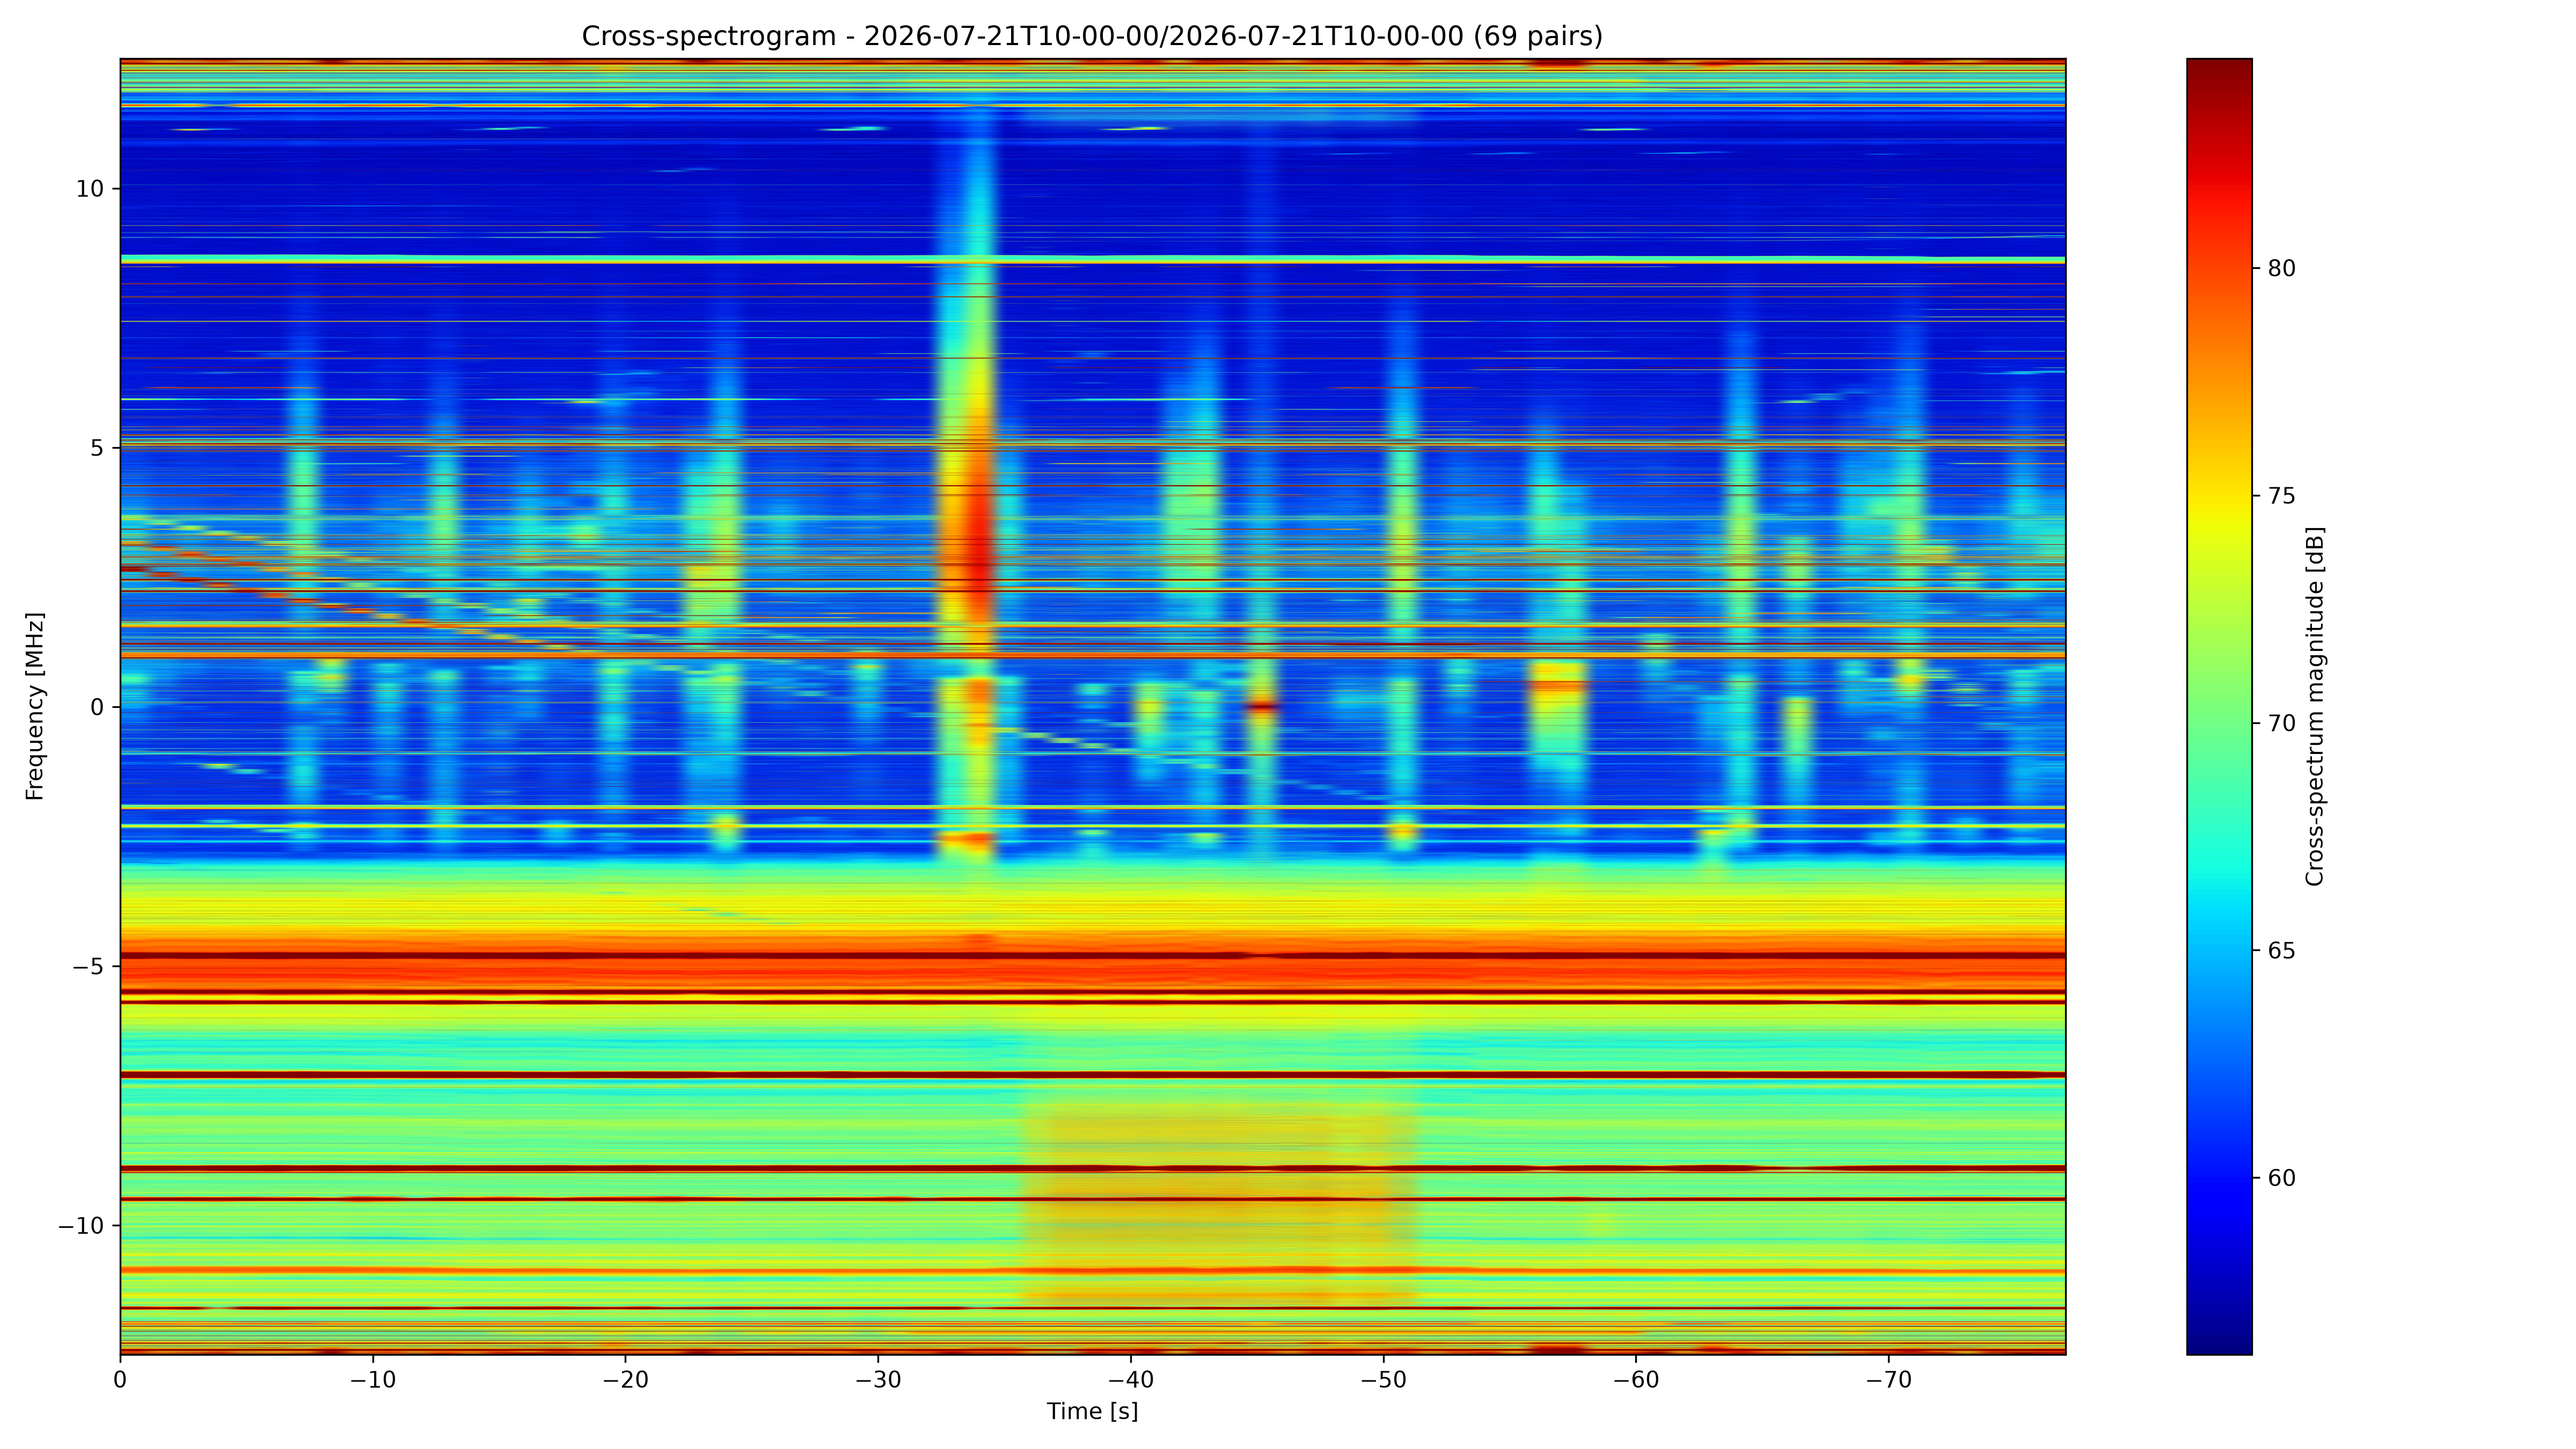
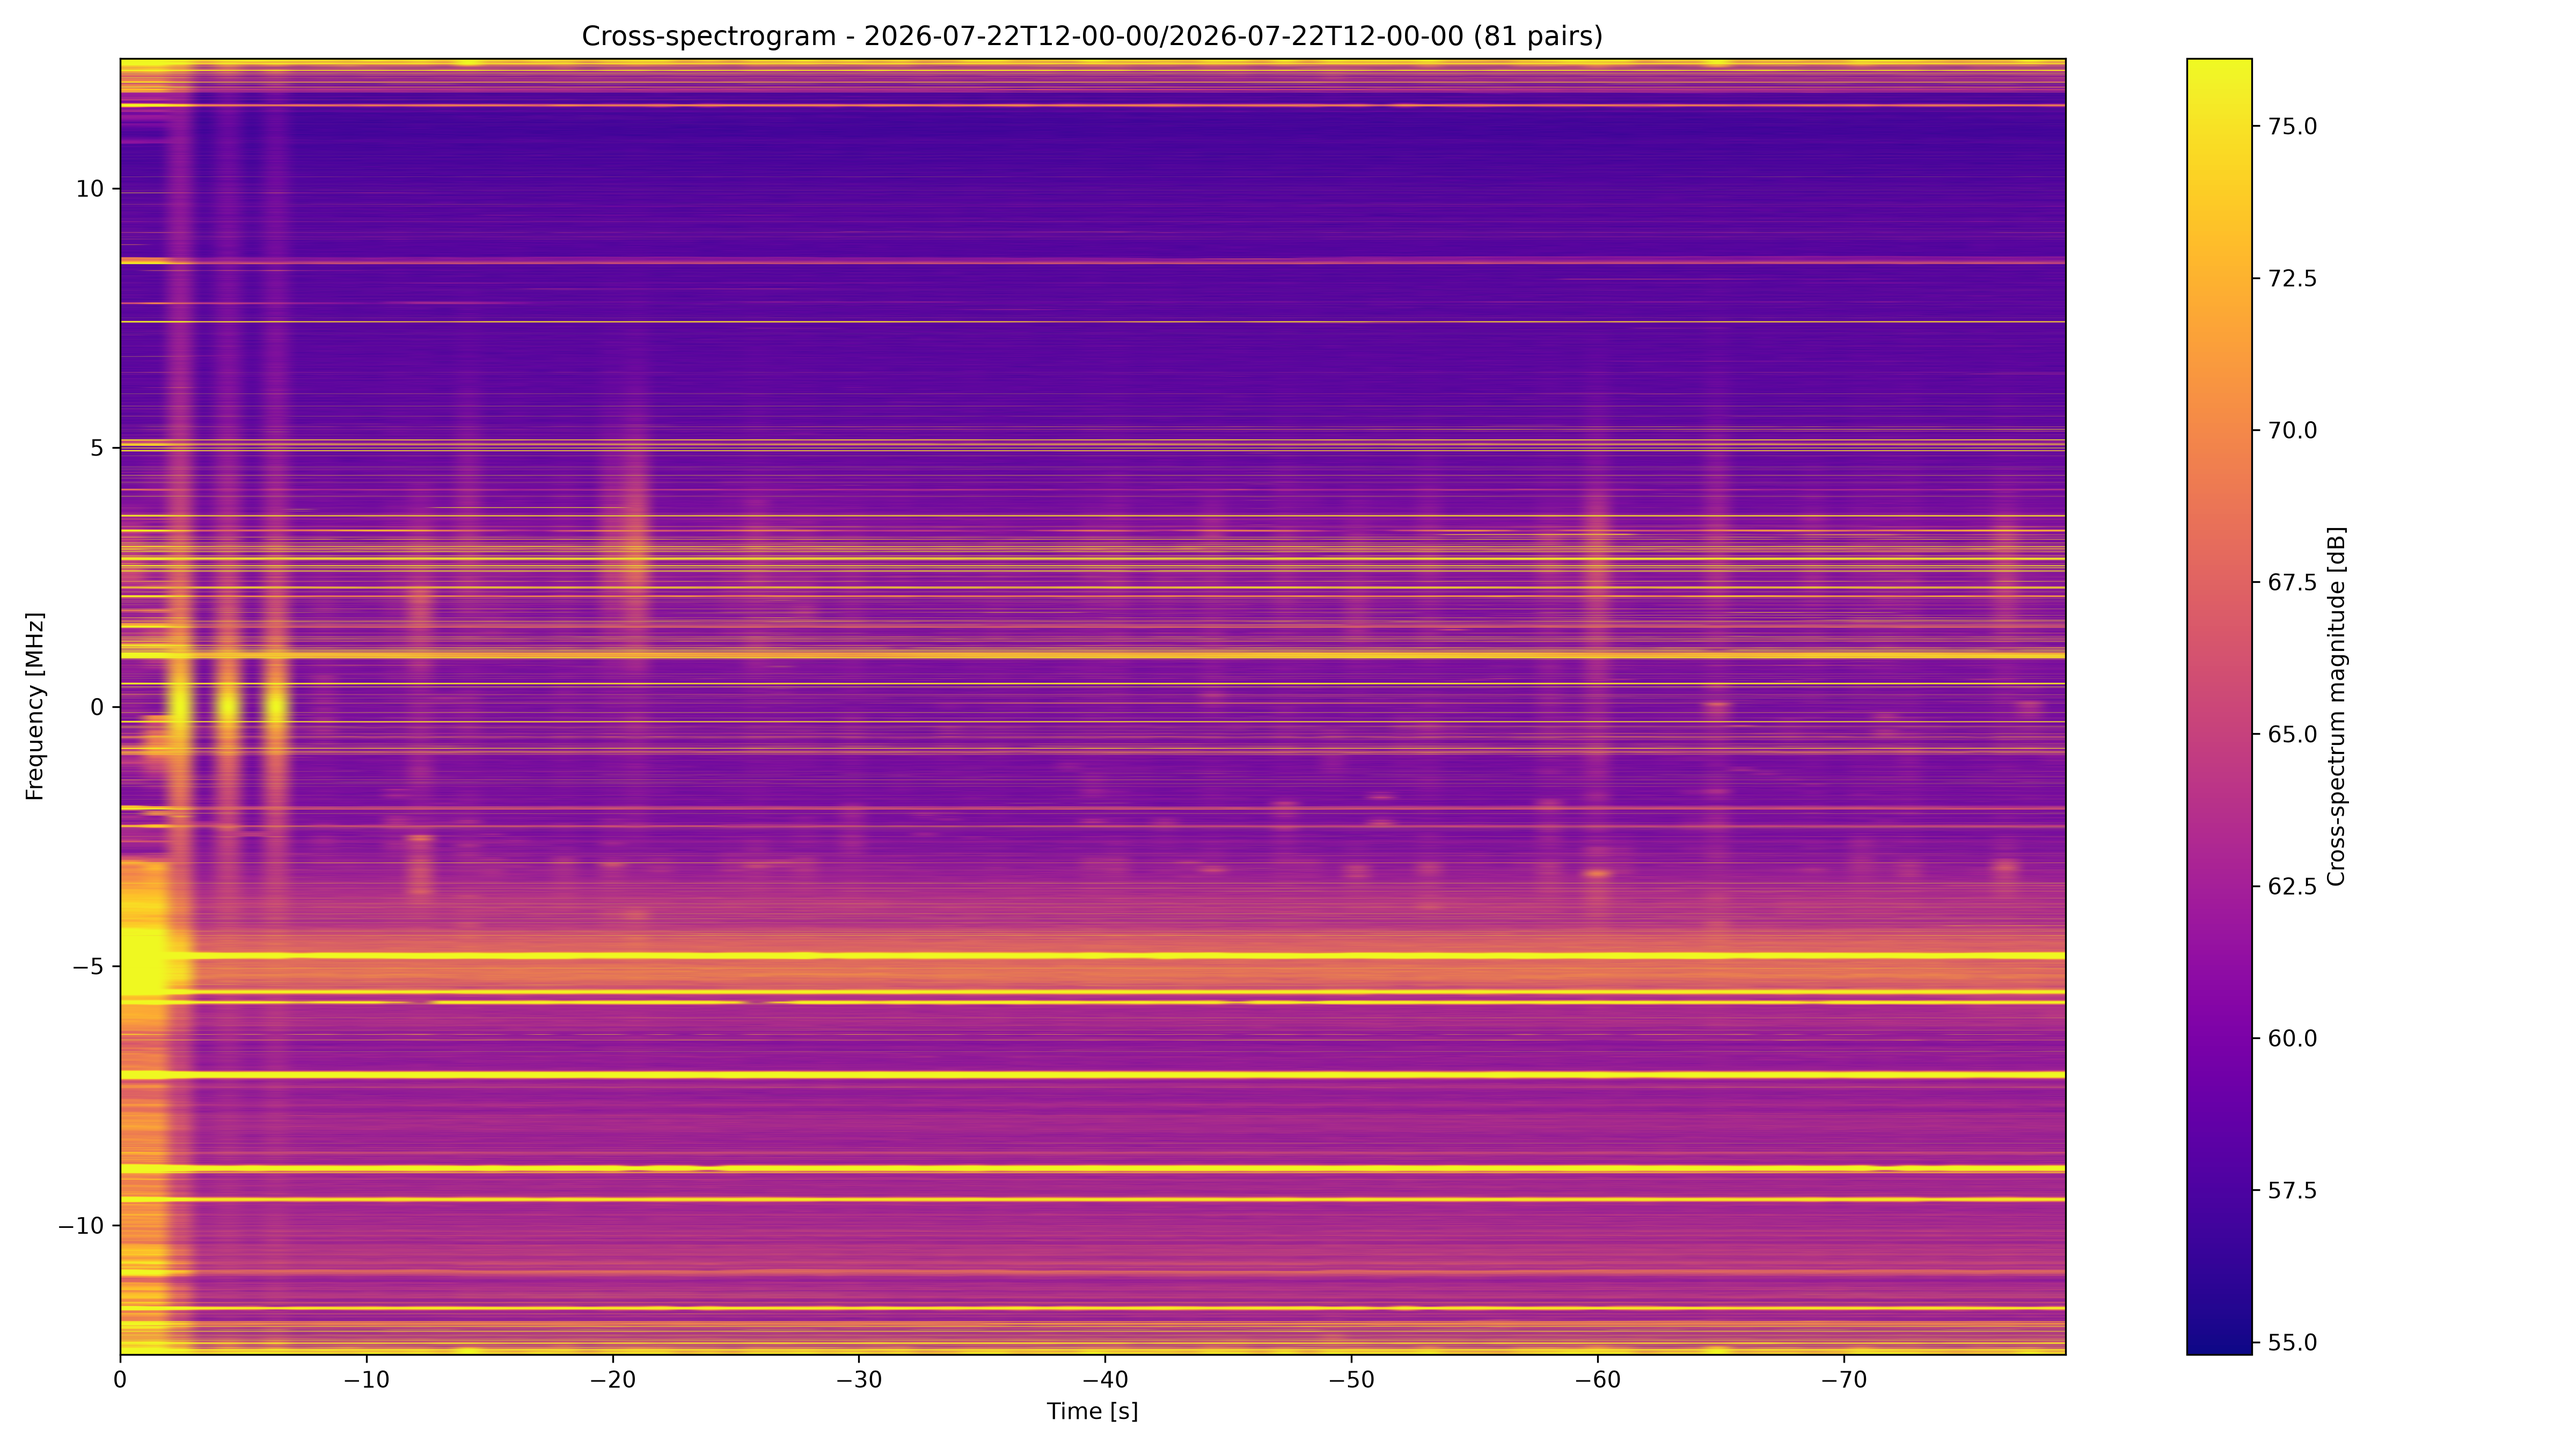
Update .gitignore, modify cache cleaning logic, change colormap, and adjust paths in coherence scriptsf

diff --git a/example_live_all.py b/example_live_all.py
@@ -27,15 +27,15 @@ from PyQt5.QtWidgets import QApplication, QMainWindow, QVBoxLayout, QWidget
 from sblib.SignalBurner import SignalBurner
 
 # ----------------------------- defaults ---------------------------------
-CHA1_ROOT = Path("/dev/shm/signal-burn/hf25/cha1")
-CHA2_ROOT = Path("/dev/shm/signal-burn/hf25/cha2")
+CHA1_ROOT = Path("/dev/shm/hf25/cha2/data")
+CHA2_ROOT = Path("/dev/shm/hf25/cha3/data")
 CACHE_DIR = Path("/pool/signal_storage/cache")
 FFT_SIZE = 262144
 FS = 25_000_000  # Hz
 WINDOW_MINUTES = 1.0  # rolling window length
 DATASET_NAME = "rf_data"
 MAX_TIME_DIFF = 0.0  # max timestamp mismatch for pairing
-CLEAR_INPUT_FOLDER = True  # delete existing .h5 files in input folders on start
+CLEAR_INPUT_FOLDER = False  # delete existing .h5 files in input folders on start
 DOWNSAMPLE_DISPLAY = 1  # keep every N-th file in display
 FREQ_DOWNSAMPLE = 64  # downsampling factor on frequency axis (1 = no reduction)
 X_FUTURE = 5.0  # seconds to extend x-axis into the future
@@ -117,12 +117,12 @@ class Worker(QThread):
                     for f in folder.glob("*.h5"):
                         try:
                             f.unlink()
-                        except Exception:
-                            pass
+                        except Exception as e:
+                            print(f"[Worker] Error deleting {f}: {e}")
 
         self.timer = QTimer()
         self.timer.timeout.connect(self._poll)
-        self.timer.start(500)  # ms
+        self.timer.start(900)  # ms
         self.exec_()
         self.sb.shutdown()
         print("[Worker] Stopped.")
@@ -330,7 +330,7 @@ class MainWindow(QMainWindow):
             self.plots.append(pw)
             self.img_items.append(img)
 
-        self.setGeometry(100, 100, 1800, 600)
+        self.setGeometry(100, 100, 900, 900)
 
         self.latest_data = None
 
@@ -433,9 +433,7 @@ def main():
     parser.add_argument("--window", type=float, default=WINDOW_MINUTES)
     parser.add_argument("--dataset", default=DATASET_NAME)
     parser.add_argument("--max-diff", type=float, default=MAX_TIME_DIFF)
-    parser.add_argument(
-        "--clear-input", action="store_true", default=CLEAR_INPUT_FOLDER
-    )
+    parser.add_argument("--clear-input", type=bool, default=CLEAR_INPUT_FOLDER)
     parser.add_argument("--downsample", type=int, default=DOWNSAMPLE_DISPLAY)
     parser.add_argument("--freq-downsample", type=int, default=FREQ_DOWNSAMPLE)
     parser.add_argument("--x-future", type=float, default=X_FUTURE)

diff --git a/sblib/SignalBurner.py b/sblib/SignalBurner.py
@@ -109,13 +109,20 @@ class SignalBurner:
         Returns (data, num_samples).
         """
         with h5py.File(h5_path, "r") as f:
-            raw = f[self.dataset_name][:]
+            ds = f[self.dataset_name]
+            raw = np.empty(ds.shape, dtype=ds.dtype)
+            ds.read_direct(raw)
 
         if raw.dtype.fields and {"r", "i"}.issubset(raw.dtype.fields):
-            num_samples = raw.shape[0]
-            data = np.empty(num_samples * 2, dtype=np.int16)
-            data[0::2] = raw["r"].ravel()
-            data[1::2] = raw["i"].ravel()
+            if raw.dtype.itemsize == 4 and raw.flags["C_CONTIGUOUS"]:
+                # compound {r:int16, i:int16}, no padding -> already interleaved
+                # in memory as r0,i0,r1,i1,... — zero-copy view, no strided copy
+                data = raw.view(np.int16).ravel()
+            else:
+                num_samples = raw.shape[0]
+                data = np.empty(num_samples * 2, dtype=np.int16)
+                data[0::2] = raw["r"].ravel()
+                data[1::2] = raw["i"].ravel()
         else:
             data = np.asarray(raw, dtype=np.int16).ravel()
             if data.size % 2 != 0:

diff --git a/example_triple_coherence.py b/example_triple_coherence.py
@@ -4,10 +4,10 @@ import time
 import re
 
 
-CHA1_ROOT = Path("/dev/shm/signal-burn/hf25/cha1")
-CHA2_ROOT = Path("/dev/shm/signal-burn/hf25/cha2")
-CHA3_ROOT = Path("/dev/shm/signal-burn/hf25/cha3")
-COH_OUT = Path("/dev/shm/signal-burn/hf25/coherence")
+CHA1_ROOT = Path("/dev/shm/hf25/cha1/data")
+CHA2_ROOT = Path("/dev/shm/hf25/cha2/data")
+CHA3_ROOT = Path("/dev/shm/hf25/cha3/data")
+COH_OUT = Path("/dev/shm/hf25/coherence")
 CACHE_DIR = Path("/pool/signal_storage/cache")
 DATASET_NAME = "rf_data"
 FFT_SIZE = 262144

diff --git a/example_cross.py b/example_cross.py
@@ -139,7 +139,7 @@ def main():
         use_cache=True,
         show_logs=False,
     )
-    burner.clean_cache(0)
+    burner.clean_cache(5)
 
     temp_dir = tempfile.mkdtemp()
     mmap_path = Path(temp_dir) / "spec_matrix.dat"
@@ -197,7 +197,7 @@ def main():
         aspect="auto",
         origin="lower",
         extent=[0, t_end, freq_axis[0], freq_axis[-1]],
-        cmap="jet",
+        cmap="plasma",
         vmin=np.percentile(spec_db, 5),
         vmax=np.percentile(spec_db, 95),
     )
